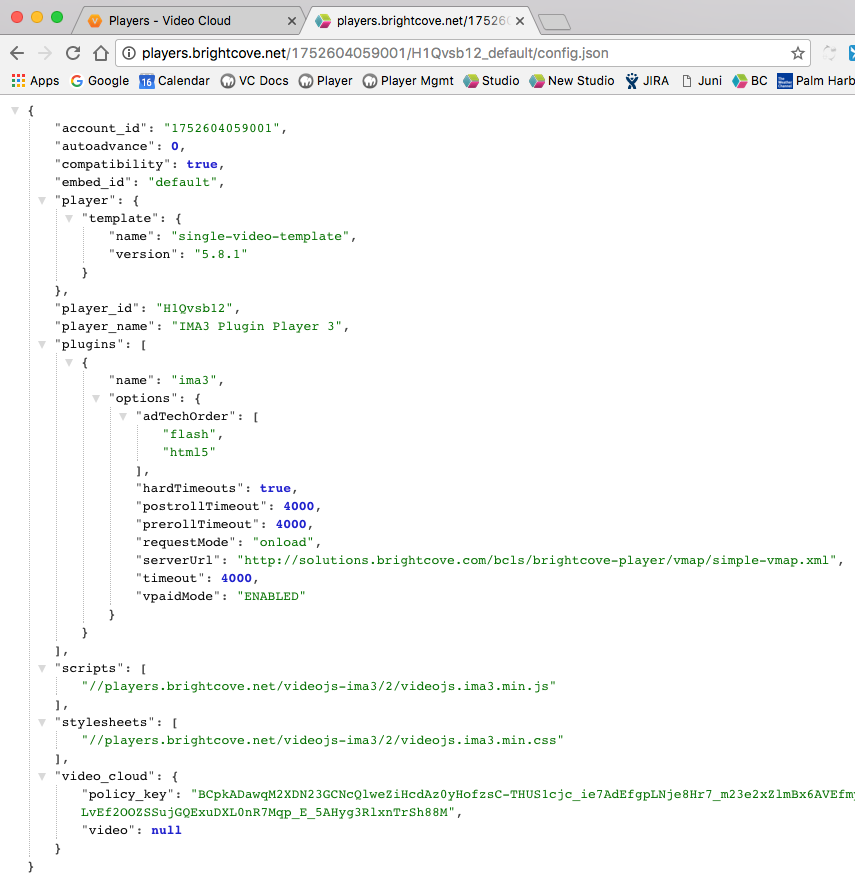
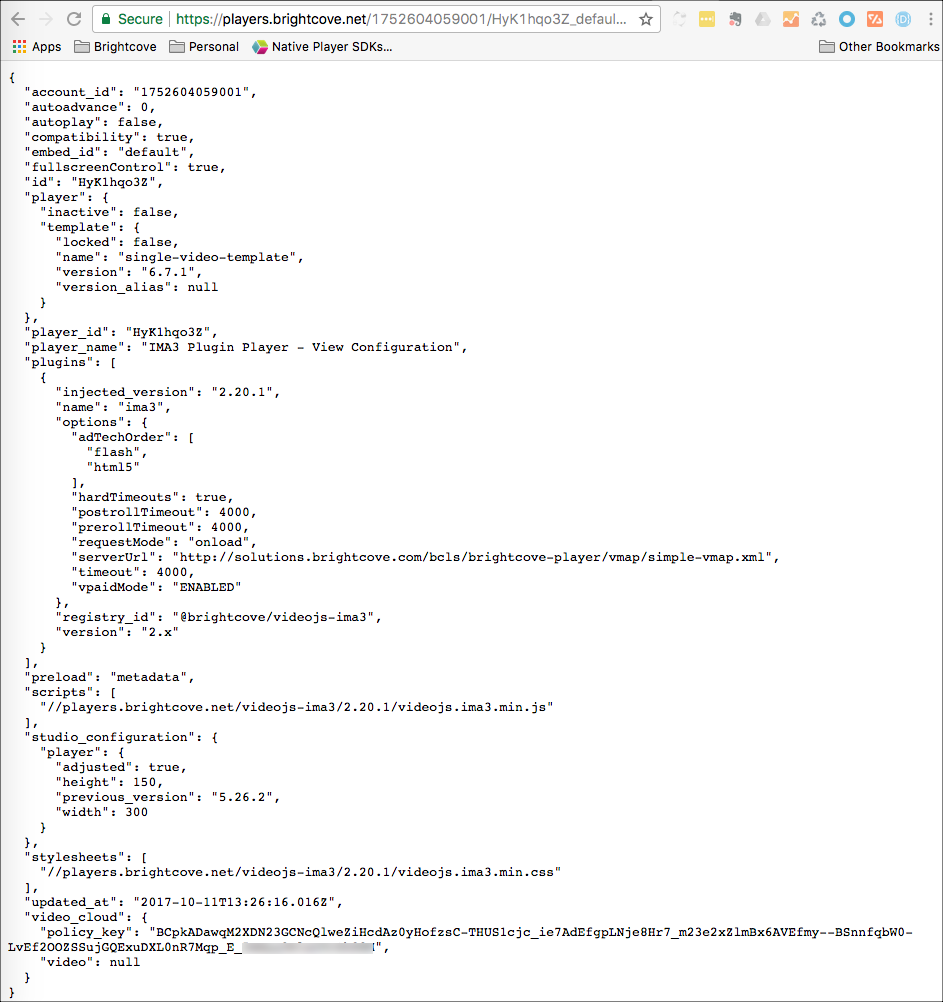
update IMA configuration doc

Changed region(s): [[0.0, 0.0, 1.0, 1.0], [0.3345, 0.336, 0.4865, 0.3971]]

diff --git a/doc-assets/node/18103-player-configuration/18103.html b/doc-assets/node/18103-player-configuration/18103.html
@@ -1,0 +1,37 @@
+<article class="bcls-article">
+<section id="Viewing_the_configuration" class="bcls-section">
+<h2>Viewing the configuration</h2>
+
+<p>Follow these steps to view a player's configuration:</p>
+
+<ol class="bcls-tasklist">
+	<li>In Studio, go the the <strong>PLAYERS</strong> module.</li>
+	<li>Click the <strong>Embed Code &amp; URL</strong> button.</li>
+	<li>From the drop down, click <strong>Published Player</strong>.</li>
+	<li>From the window that opens, click the <strong>Player URL</strong>. You will see the player open in a browser.
+	<figure class="bcls-figure"><img class="bcls-image" alt="Player URL link" src="//learning-services-media.brightcove.com/doc-assets/player-development/architecture/view-player-configuration/player-url.png" /></figure>
+	</li>
+	<li>Check the URL in the browser, it will appear something like this:
+	<pre class="line-numbers">
+<code class="language-html">https://players.brightcove.net/1752604059001/HyK1hqo3Z_default/index.html</code></pre>
+	</li>
+	<li>Change the <code>index.html</code> in the URL to <code>config.json</code>.</li>
+	<li>The altered URL will display the player's configuration:
+	<figure class="bcls-figure"><img class="bcls-image" alt="Player configuration" src="//learning-services-media.brightcove.com/doc-assets/player-development/architecture/view-player-configuration/configuration.png" /></figure>
+
+	<aside class="bcls-aside bcls-aside--information">Note: The resulting JSON may not be displayed as nicely as shown in the screenshot. You can find a JSON formatter extension/add on for your browser to help format the JSON. In the screenshot, Chrome's <strong>JSON Formatter</strong> extension is used.</aside>
+	</li>
+</ol>
+</section>
+
+<section id="Changing_the_configuration" class="bcls-section">
+<h2>Changing the configuration</h2>
+
+<p>Although changing the configuration is beyond the scope of this document, a couple comments on that subject are appropriate.</p>
+
+<ul>
+	<li>Studio provides a UI to alter many aspects of the configuration of the player in the <strong>PLAYERS</strong> module.</li>
+	<li>For complete control of the player's configuration the <strong>Player Management API</strong> can be used. Be aware, this is for the developer oriented and uses <strong>curl</strong> statements extensively. The <a href="/node/18268">Quick Start: Player Management</a> document provides an introduction to the process.</li>
+</ul>
+</section>
+</article>
